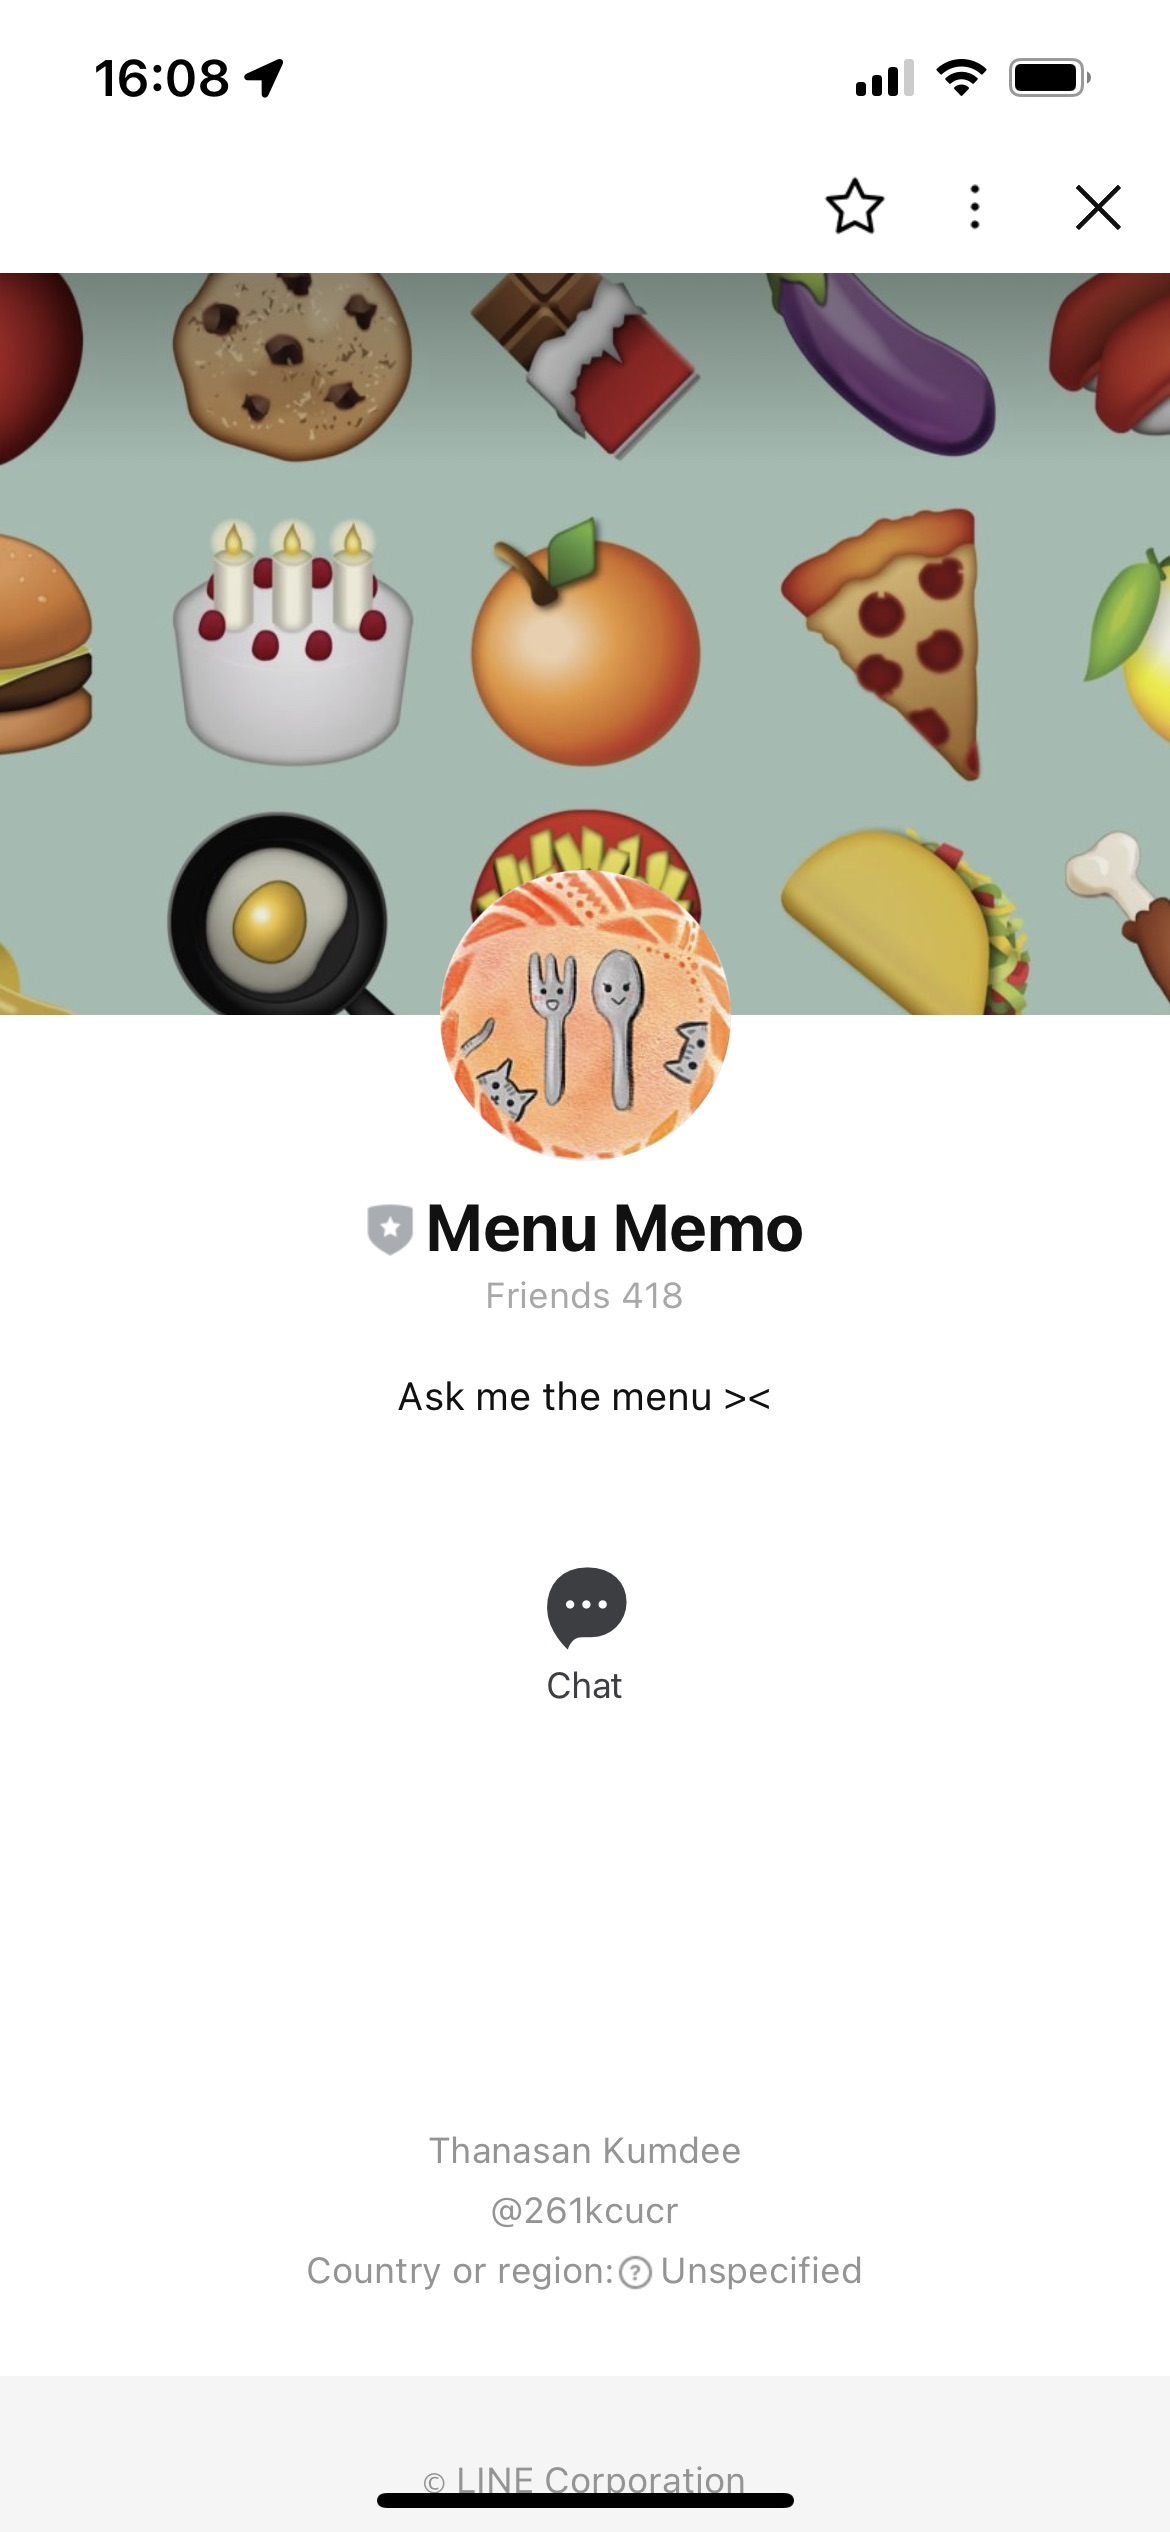
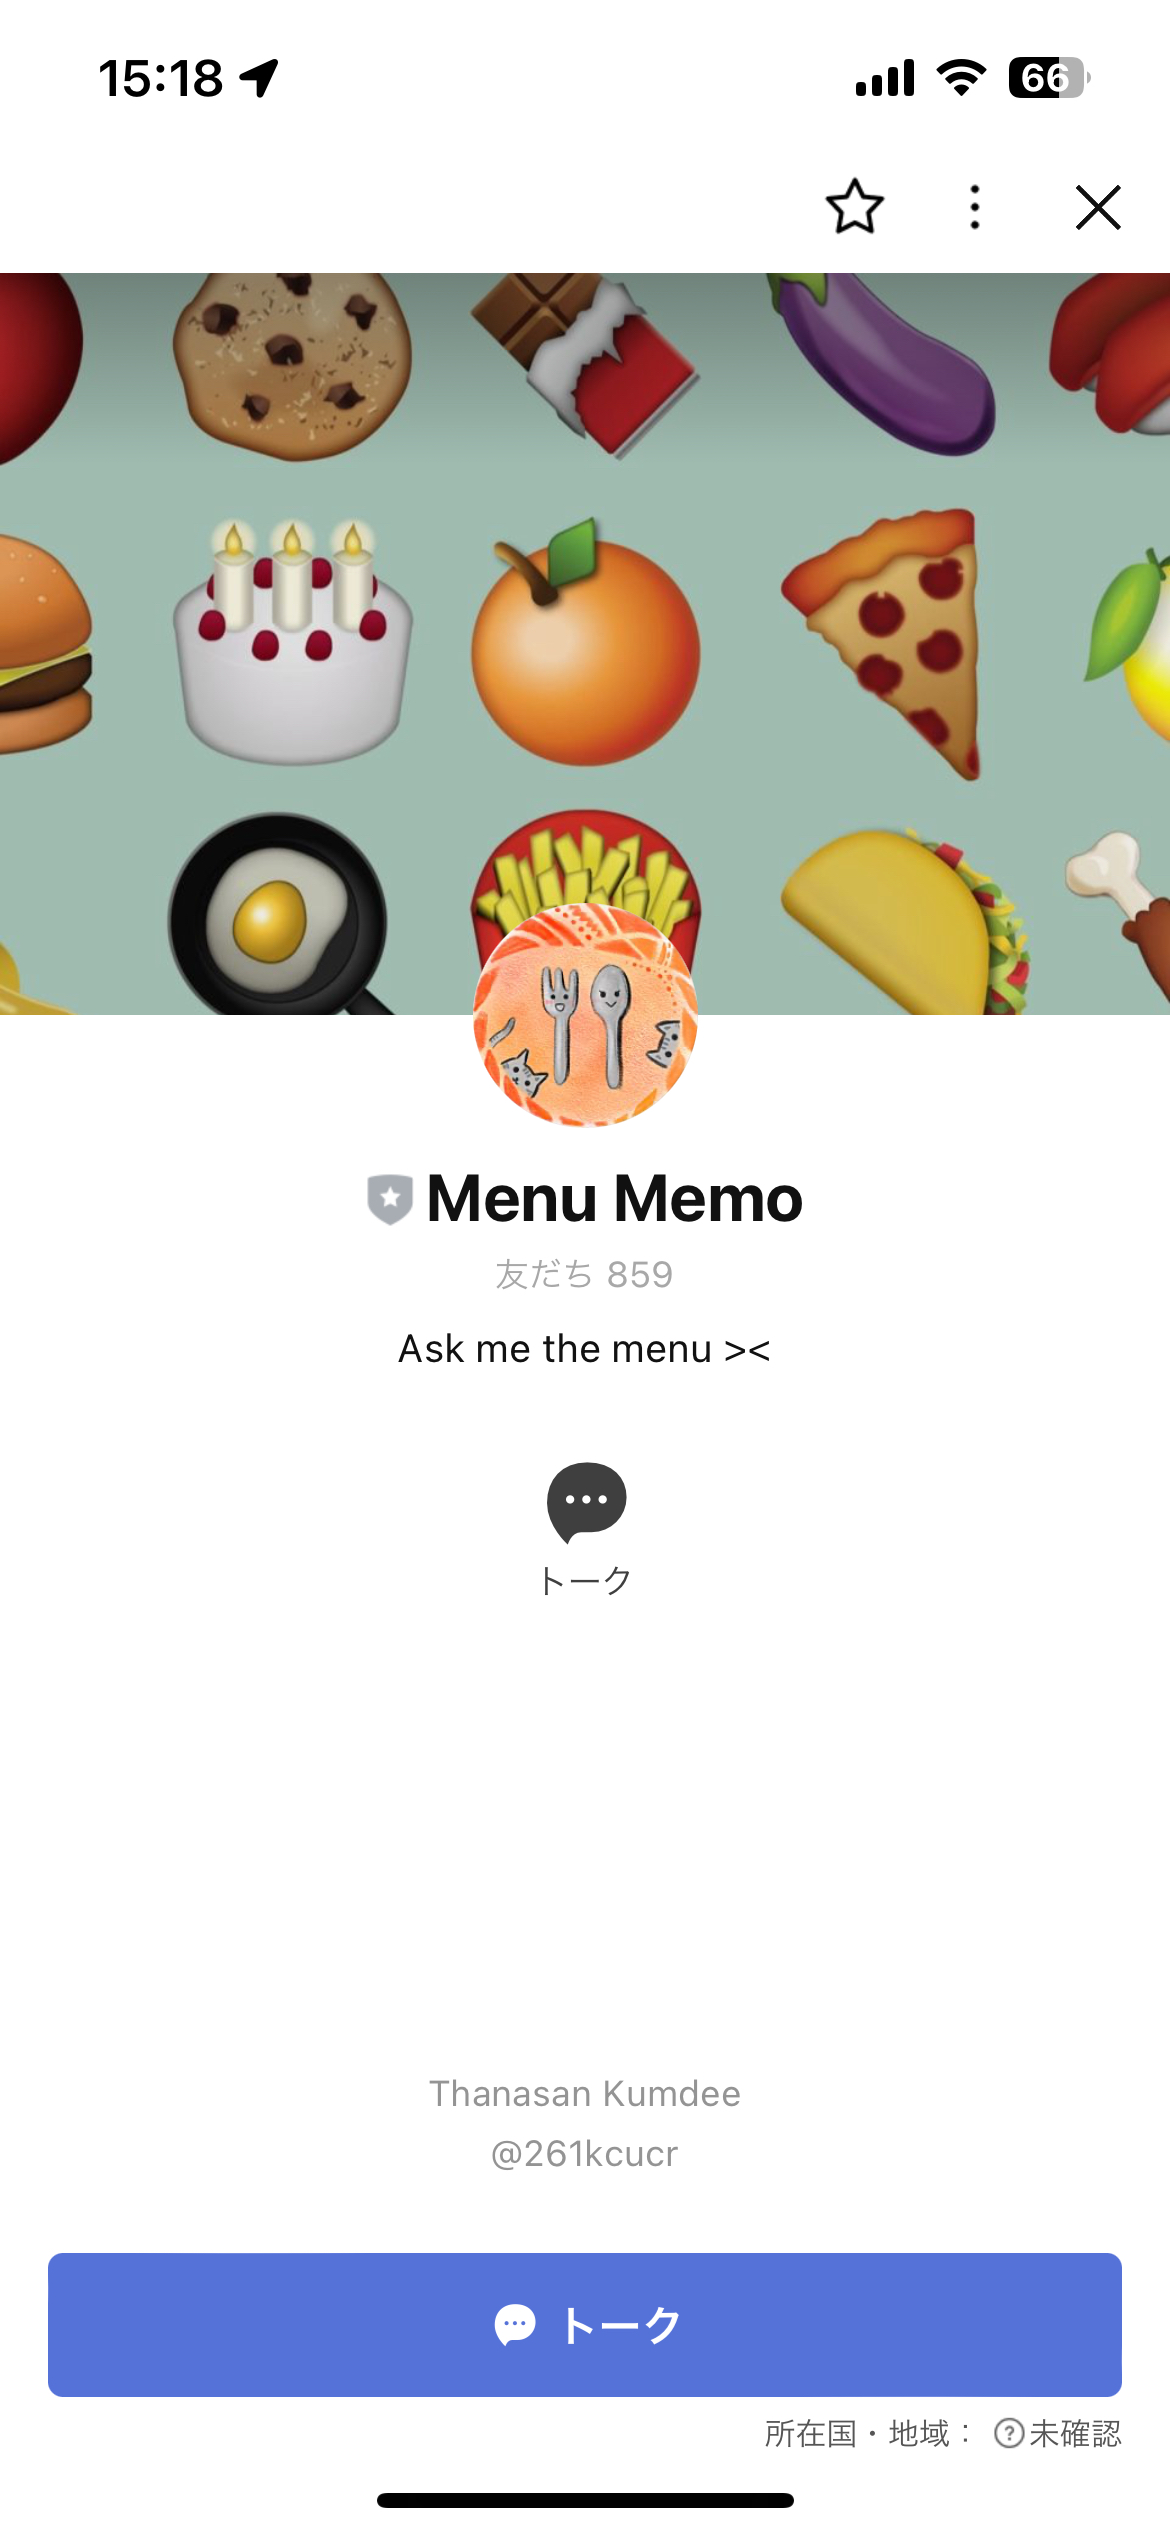
add: info

diff --git a/data/projects.ts b/data/projects.ts
@@ -42,13 +42,18 @@ export const projects: Project[] = [
         title: "Homepage",
       },
     ],
-    previews: [],
+    previews: [
+      {
+        url: "/images/yondaaa/00.png",
+        width: 1920,
+        height: 1080,
+      },
+    ],
     slug: "yondaaa",
     tools: ["swiftui", "rails"],
     comments: [
       {
-        comment: "I lost the source of frontend so I am remaking it 😭.",
-        // "ทำให้เวลาทำโจทย์ไปเยอะๆ แล้วสามารถเลื่อนหาข้อที่ยังไม่ได้ทำได้ง่ายขึ้นครับ ใช้มาครึ่งปีแล้วว",
+        comment: "I lost the source of frontend so I have remake it 😭.",
         author: "Thanasan Kumdee",
         date: new Date("Aug 19, 2024"),
       },
@@ -67,7 +72,13 @@ export const projects: Project[] = [
         title: "Visit",
       },
     ],
-    previews: [],
+    previews: [
+      {
+        url: "/images/snake-search/00.png",
+        height: 1652,
+        width: 2880,
+      },
+    ],
     slug: "snake-search",
     tools: ["nextjs", "tailwind", "shadcn/ui"],
     comments: [],
@@ -557,8 +568,8 @@ export const projects: Project[] = [
   },
   {
     title: "Menu Memo ",
-    body: "A LINE chatbot for telling school's menu at my high school, KVIS",
-    detail: "",
+    body: "A LINE chatbot for telling school's menu at my high school, KVIS.",
+    detail: "It has been used since 2020, until now (2024) with over 800 friends.",
     since: new Date("July, 2020"),
 
     links: [
@@ -567,7 +578,16 @@ export const projects: Project[] = [
         title: "GitHub",
       },
     ],
-    previews: [],
+    previews: [{
+      url:'/images/menumemo/01.jpeg',
+      width: 1170,
+      height: 2532,
+    },
+    {
+      url:'/images/menumemo/02.jpeg',
+      width: 1170,
+      height: 2532,
+    }],
     slug: "menu-memo",
     tools: ["javascript"],
     comments: [],

diff --git a/components/navigation-bar.tsx b/components/navigation-bar.tsx
@@ -45,16 +45,18 @@ const NavigationBar = ({ locale }: { locale: string }) => {
                     onValueChange={(value: string) => {
                         router.replace('/', { locale: value });
                     }}
+
                 >
                     <SelectTrigger className="w-[140px]">
                         <Globe size={16} className="" />
                         <SelectValue placeholder="English" />
                     </SelectTrigger>
-                    <SelectContent >
+                    <SelectContent className="max-sm:hidden">
                         <SelectItem value="en">English</SelectItem>
                         <SelectItem value="ja" disabled>日本語</SelectItem>
                         <SelectItem value="th" disabled>ภาษาไทย</SelectItem>
                     </SelectContent>
+
                 </Select>
                 {/* <Button size={'icon'} variant={'outline'}>
                     <MenuIcon />
